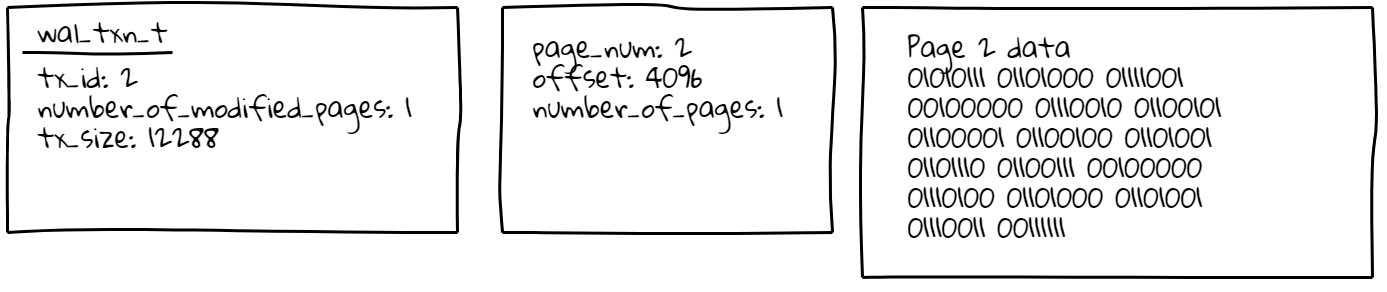
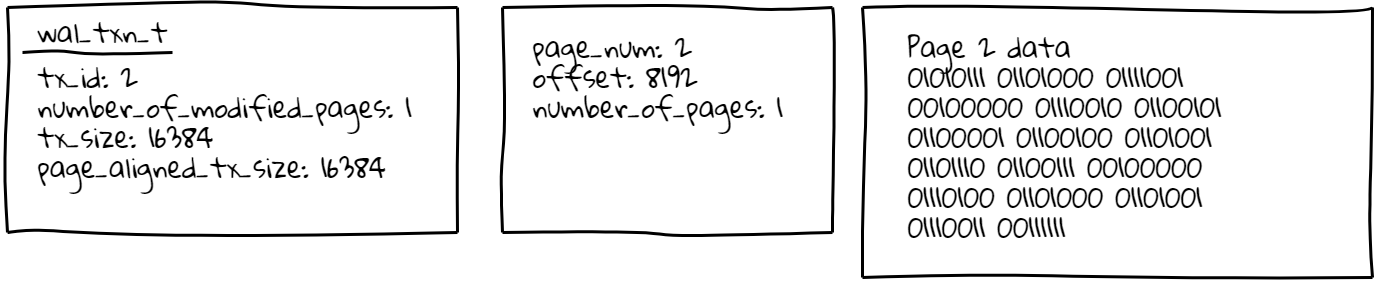
Updating chapter 8

diff --git a/ch08/code/wal.c b/ch08/code/wal.c
@@ -22,7 +22,7 @@ enum wal_txn_flags {
 };
 
 typedef struct wal_txn {
-  uint8_t tx_hash_sodium[32];
+  uint8_t hash_blake2b[32];
   uint64_t tx_id;
   uint64_t page_aligned_tx_size;
   uint64_t tx_size;
@@ -73,7 +73,6 @@ static result_t wal_prepare_txn_buffer(txn_state_t *tx,
       tx, wt, ((char *)wt) + tx_header_size);
   wt->tx_size = (uint64_t)((char *)end - (char *)wt);
   wt->page_aligned_tx_size = TO_PAGES(wt->tx_size) * PAGE_SIZE;
-  memset(end, 0, wt->page_aligned_tx_size - wt->tx_size);
   *txn_buffer = wt;
   cancel_defer = 1;
   return success();
@@ -88,8 +87,7 @@ result_t wal_append(txn_state_t *tx) {
 
   wal_state_t *wal = &tx->db->wal_state;
 
-  wal_file_state_t *cur_file =
-      &wal->files[wal->current_append_file_index];
+  wal_file_state_t *cur_file = &wal->files[0];
   ensure(pal_write_file(cur_file->handle, cur_file->last_write_pos,
                         (char *)txn_buffer,
                         txn_buffer->page_aligned_tx_size));
